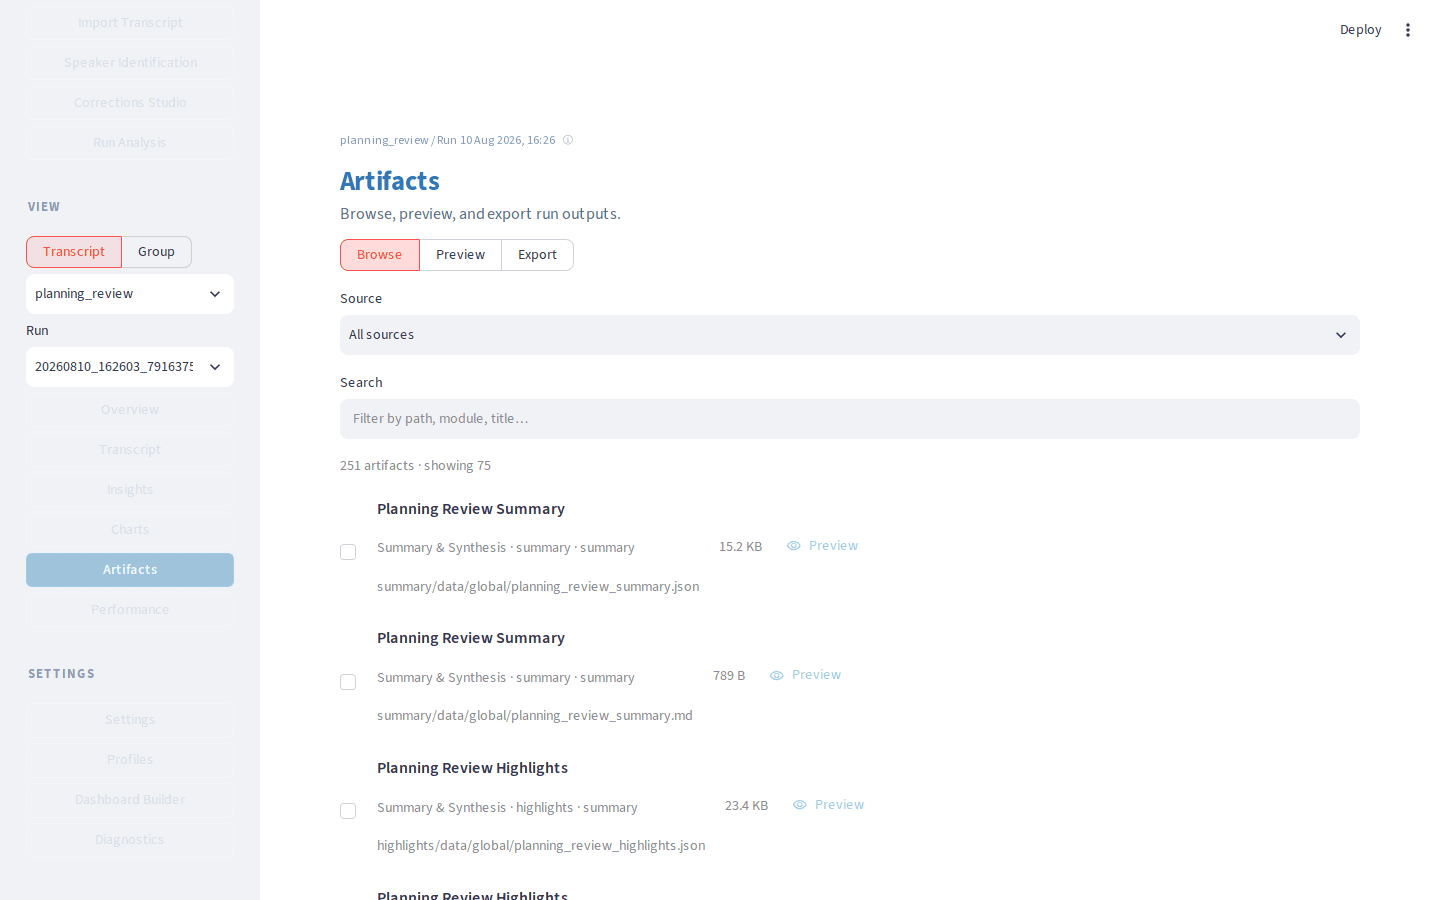
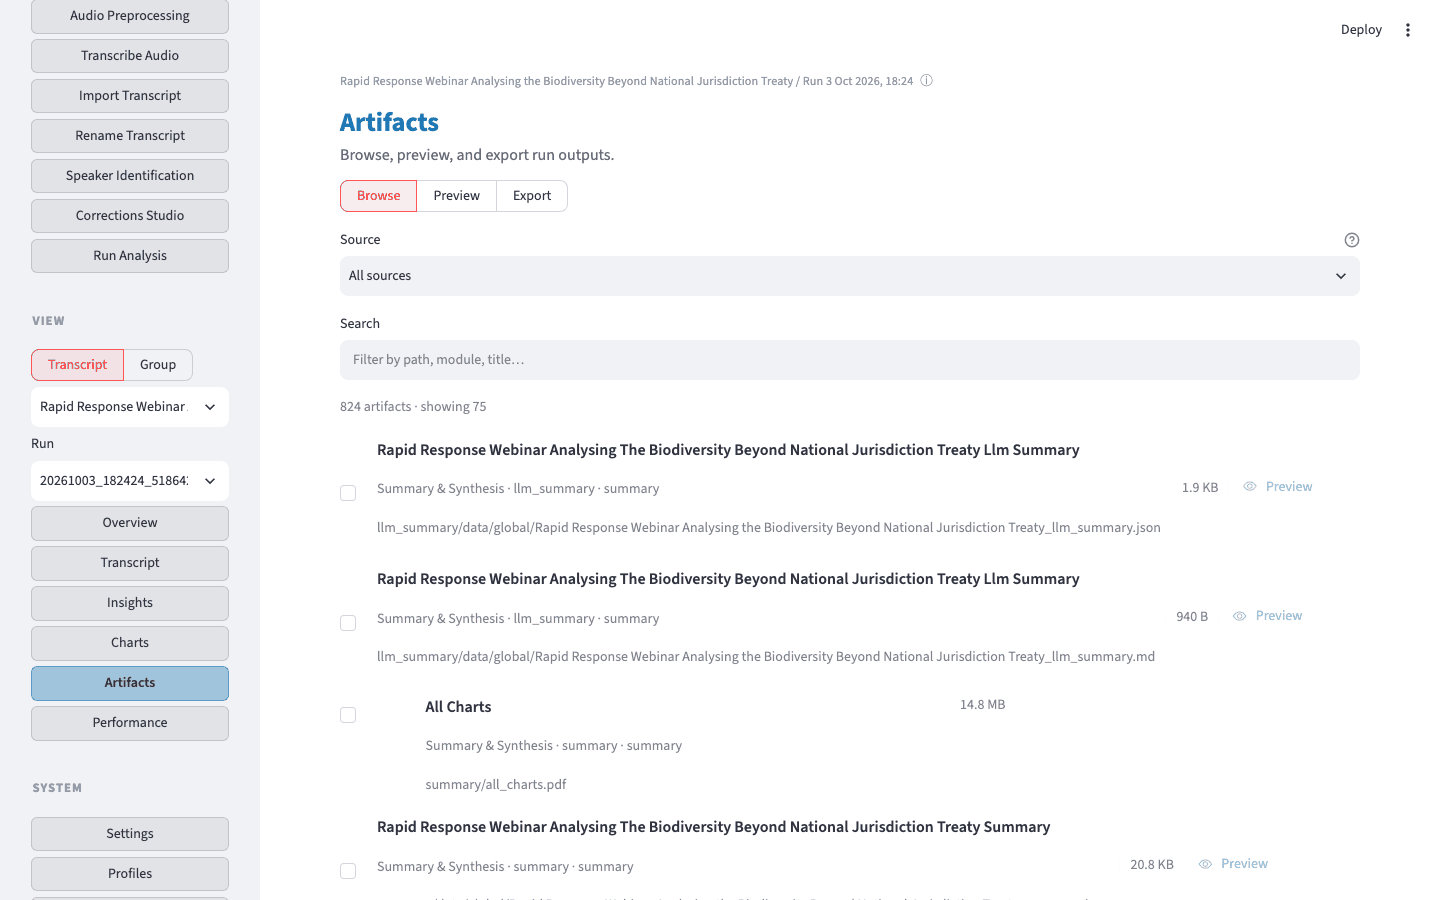
Refresh workflow screenshots from a recent Balanced webinar run.

diff --git a/docs/workflows/first-analysis.md b/docs/workflows/first-analysis.md
@@ -12,6 +12,8 @@ TranscriptX is running and you can open the sidebar. You do not need local AI fo
 
 Download or copy the sample file [planning_review.json](fixtures/planning_review.json) so you can import it.
 
+The screenshots are a **Balanced** run of *Rapid Response Webinar Analysing the Biodiversity Beyond National Jurisdiction Treaty*, after speakers were named. The clicks are the same with the sample file.
+
 For a **native** install from git (not Docker), install chart dependencies before **Balanced** — for example `./transcriptx.sh` or `pip install -e ".[full,web]"` — so modules that write charts do not fail mid-run. See [Installation](../runtime/installation.md).
 
 ## What you’ll do
@@ -35,7 +37,7 @@ For a **native** install from git (not Docker), install chart dependencies befor
 
 4. Open **Run Analysis**. Keep the target as **Transcript** and the analysis preset as **Balanced** (the default). Balanced runs a practical core set without requiring local AI for the non-LLM modules.
 
-![Run Analysis page showing the Balanced preset ready to launch](../_static/workflows/first-analysis-run-analysis.png)
+![Run Analysis with Balanced selected for the BBNJ rapid-response webinar](../_static/workflows/first-analysis-run-analysis.png)
 
 5. Choose **Run analysis** and wait until the progress panel reports completion. A success message naming the output folder appears when the run finishes.
 
@@ -43,7 +45,7 @@ For a **native** install from git (not Docker), install chart dependencies befor
 
 6. Open **Overview** for the selected transcript and run. Check **At a glance**, the speaker cards, and the compact highlights strip.
 
-![Overview page after a Balanced run showing at-a-glance metrics and highlights](../_static/workflows/first-analysis-overview.png)
+![Overview after that Balanced run: summary, Local AI badge, and at-a-glance metrics](../_static/workflows/first-analysis-overview.png)
 
 7. Pick two or three outputs that look useful for this meeting — for example a theme-related highlight, a speaker card, or run status. You do not need every panel yet.
 

diff --git a/docs/workflows/speaker-identification.md b/docs/workflows/speaker-identification.md
@@ -10,6 +10,8 @@ You will have named (or deliberately ignored) the diarized speakers on the sampl
 
 The sample [planning_review.json](fixtures/planning_review.json) is [imported](../runtime/transcription.md) (see [First analysis](first-analysis.md)). Speakers still show as `SPEAKER_00`, `SPEAKER_01`, and `SPEAKER_02`.
 
+The figures show the same page on *Rapid Response Webinar Analysing the Biodiversity Beyond National Jurisdiction Treaty* after six diarized speakers were given display names.
+
 Audio is optional for naming from text lines. If a matching recording is linked (same base name under recordings), you can load and play short clips while deciding who each diarized ID is.
 
 ## What you’ll do
@@ -27,7 +29,7 @@ On a managed library transcript you can also use **Apply auto-identify** (voice 
 
 1. From **Library** or the post-import actions, open **Speaker Identification**. Select the planning-review transcript if it is not already selected.
 
-![Speaker Identification page showing sample lines for the active diarized speaker](../_static/workflows/speaker-identification-page.png)
+![Speaker Identification after naming six speakers on the BBNJ webinar](../_static/workflows/speaker-identification-page.png)
 
 2. Read the sample lines for the first speaker. Decide who that person is from the dialogue (in this fixture: facilitator / product, engineering, and support roles).
 
@@ -47,7 +49,7 @@ A unique name match preselects the existing person. If several profiles share th
 
 8. Open **Transcript** and confirm turns now show your chosen names instead of `SPEAKER_00`-style IDs.
 
-![Transcript viewer showing named speakers after Speaker Identification](../_static/workflows/speaker-identification-transcript.png)
+![Transcript viewer showing those display names, timestamps, and search](../_static/workflows/speaker-identification-transcript.png)
 
 9. Re-run or refresh analysis views that depend on named speakers when you care about per-speaker summaries. A prior run may still reflect old labels until modules that key on speaker identity are run again.
 

diff --git a/docs/workflows/investigate-evidence.md b/docs/workflows/investigate-evidence.md
@@ -10,6 +10,8 @@ You will have answered one concrete question about the sample meeting by moving 
 
 The planning-review transcript is [imported](../runtime/transcription.md), speakers are preferably named ([Identify and name speakers](speaker-identification.md)), and a [**Balanced**](../runtime/settings.md#analysis-presets) (or richer) run is selected on **Overview**.
 
+The figures are the BBNJ rapid-response webinar run: speaker cards on Overview, then quoted moments on Insights → Highlights.
+
 **Example question:** *Where did the speakers disagree most about the launch plan?*
 
 ## What you’ll do
@@ -24,11 +26,11 @@ The planning-review transcript is [imported](../runtime/transcription.md), speak
 
 1. Keep the example question in mind. Open **Overview** for the planning-review run and scan the compact highlights and speaker cards for signs of disagreement (timeline, scope, analytics).
 
-![Overview highlights suggesting disagreement topics in the planning review run](../_static/workflows/investigate-overview.png)
+![Overview speaker cards for the BBNJ webinar Balanced run](../_static/workflows/investigate-overview.png)
 
 2. Open **Insights** and stay on the **Summary** section first. Read the executive overview, key themes, and any tension points — in this sample you should see disagreement around timeline, collaboration scope, and analytics.
 
-![Insights Summary showing executive overview, key themes, and a tension point with a quoted excerpt](../_static/workflows/investigate-highlights.png)
+![Insights Highlights for the BBNJ webinar, with a quoted notable moment](../_static/workflows/investigate-highlights.png)
 
 3. Follow one tension point or theme quote into fuller context. Prefer a cited speaker line (for example Sam on analytics versus shared folders) and open **Transcript** to read the surrounding turns. Use **Highlights** only if you want a denser quote/tension list.
 

diff --git a/docs/workflows/local-ai-synthesis.md b/docs/workflows/local-ai-synthesis.md
@@ -8,7 +8,7 @@ You will have confirmed Local AI readiness, run (or re-run) summary / [**Meeting
 
 ## Starting point
 
-- The planning-review transcript is [imported](../runtime/transcription.md) and a run context is available.
+- The planning-review transcript is [imported](../runtime/transcription.md) and a run context is available. The Overview figure is the BBNJ webinar run, which included local summary (`gemma3:12b`).
 - Local AI is enabled and reachable. Follow [Local LLM (Ollama)](../runtime/llm.md) if you still need setup — this page is not an installer guide.
 - You understand that LLM modules send transcript text to your configured Ollama endpoint.
 
@@ -34,7 +34,7 @@ Local AI is **optional**. Workflows 1–3 and 5 work without it.
 
 4. Open [**Overview**](../public_surfaces.md). After a successful Local AI run, look for summary content and compact meeting extracts with a **Local AI** badge. Until those modules complete, Overview may still show the deterministic summary from core analysis — useful context, but not Local AI output.
 
-![Overview summary area for the planning-review run after analysis](../_static/workflows/local-ai-overview-summary.png)
+![Overview summary for the BBNJ webinar run, with Local AI and model badges](../_static/workflows/local-ai-overview-summary.png)
 
 5. Open **Insights → Actions** for **Meeting extracts** when `llm_action_items` completed. If that module was skipped, open **Insights → Summary** and use the deterministic executive summary as a baseline, then re-run with LLM enabled when you want generated extracts.
 

diff --git a/README.md b/README.md
@@ -13,15 +13,17 @@ Not sure if this is the right tool? [How TranscriptX compares](docs/comparison.m
 
 ## The application
 
-![Overview after analysis: summary, themes, and speaker cards](docs/_static/workflows/first-analysis-overview.png)
+![Overview after a Balanced run: summary and at-a-glance metrics](docs/_static/workflows/first-analysis-overview.png)
 
 ![Transcript view with named speakers, timestamps, and search](docs/_static/workflows/speaker-identification-transcript.png)
 
-![Speaker Identification: name diarized speakers from their lines](docs/_static/workflows/speaker-identification-page.png)
+![Speaker Identification: diarized speakers named from their lines](docs/_static/workflows/speaker-identification-page.png)
 
-![Insights: themes, summaries, and highlights](docs/_static/workflows/investigate-highlights.png)
+![Insights Highlights: notable moments with quoted lines](docs/_static/workflows/investigate-highlights.png)
 
-Open **Charts** from the same View menu for visual module outputs.
+![Charts gallery for the finished run](docs/_static/workflows/charts-gallery.png)
+
+These shots are a **Balanced** run of *Rapid Response Webinar Analysing the Biodiversity Beyond National Jurisdiction Treaty*. Display names were assigned in Speaker Identification.
 
 ## What can I do with it?
 

diff --git a/docs/workflows/export-results.md b/docs/workflows/export-results.md
@@ -10,6 +10,8 @@ You will have created an [export](../runtime/export.md) ZIP containing selected 
 
 A completed analysis run is selected for the planning-review transcript (from [First analysis](first-analysis.md) or later workflows). Local AI is not required.
 
+The browse figure is the artifact list from the BBNJ webinar Balanced run.
+
 ## What you’ll do
 
 1. Confirm the transcript and run.
@@ -24,7 +26,7 @@ A completed analysis run is selected for the planning-review transcript (from [F
 
 2. Open **Artifacts**. Use **Browse** to see what the run produced, or **Preview** to skim a file without leaving the app.
 
-![Artifacts Browse section listing files from the completed planning-review run](../_static/workflows/export-artifacts-browse.png)
+![Artifacts Browse listing files from the completed BBNJ webinar run](../_static/workflows/export-artifacts-browse.png)
 
 3. Switch to **Export**. Keep a coherent selection (for example **All**, or the default selection that covers transcript, summaries, and charts you care about). Avoid turning this into a format-by-format catalogue — pick one sensible package.
 

diff --git a/docs/workflows/charts.md b/docs/workflows/charts.md
@@ -10,6 +10,8 @@ You will have opened **Charts** for the planning-review run and oriented on at l
 
 The planning-review transcript is [imported](../runtime/transcription.md) and a completed analysis run is selected (from [First analysis](first-analysis.md)). Local AI is not required.
 
+The figure is the Charts gallery from the BBNJ webinar Balanced run.
+
 ## What you’ll do
 
 1. Confirm the transcript and run in the workspace pickers.
@@ -22,6 +24,8 @@ The planning-review transcript is [imported](../runtime/transcription.md) and a 
 1. In the sidebar, select the planning-review transcript and the completed run you care about.
 
 2. Open **Charts**. The page is run-scoped: if no subject/run is selected, TranscriptX will nudge you back toward Home/Overview rather than showing an empty chart shell.
+
+![Charts gallery for the finished BBNJ webinar run](../_static/workflows/charts-gallery.png)
 
 3. Scan the chart gallery or module sections for visuals that answer a concrete question (for example speaker share, topic shift, or interaction patterns — depending on which modules completed).
 

diff --git a/docs/dev/workflow_media_capture.md b/docs/dev/workflow_media_capture.md
@@ -13,6 +13,8 @@ Maintainer notes for regenerating screenshots and GIFs under `docs/_static/workf
 
 Import via **Import Transcript**. Do not commit managed library copies under `data/`.
 
+Committed stills (October 2026) are a **Balanced** run of *Rapid Response Webinar Analysing the Biodiversity Beyond National Jurisdiction Treaty* on package 0.9.9.5, with display names assigned before analysis. The practice fixture for the written steps remains `planning_review.json`. Recapture against a disposable data root; do not commit library copies or host paths.
+
 ## Application state
 
 Capture against a disposable data root when practical.

diff --git a/docs/workflows/index.md b/docs/workflows/index.md
@@ -4,6 +4,8 @@ Short, outcome-focused walkthroughs for real jobs in the web UI. They complement
 
 Use the same sample transcript across the set so the story stays continuous: [planning_review.json](fixtures/planning_review.json) (synthetic three-speaker launch planning meeting).
 
+The still images are a **Balanced** run of *Rapid Response Webinar Analysing the Biodiversity Beyond National Jurisdiction Treaty*, after display names were assigned in Speaker Identification. Follow the steps with the sample file if you do not have that webinar.
+
 ## Common workflows
 
 Start here. First-time users should follow **1 → 5** in order.
